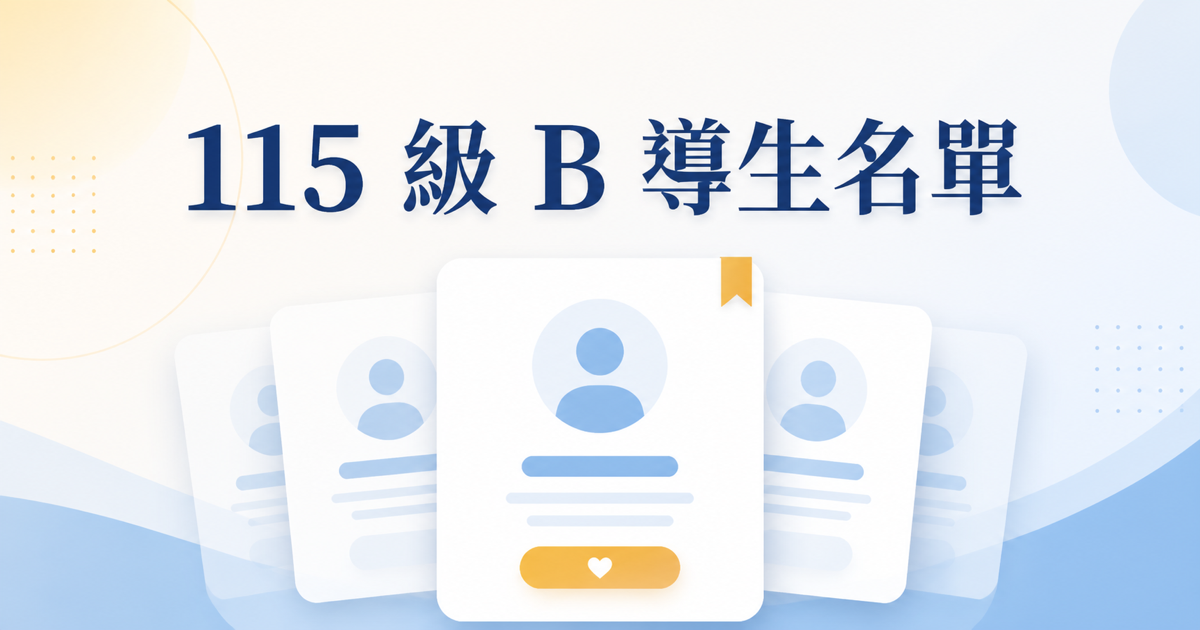
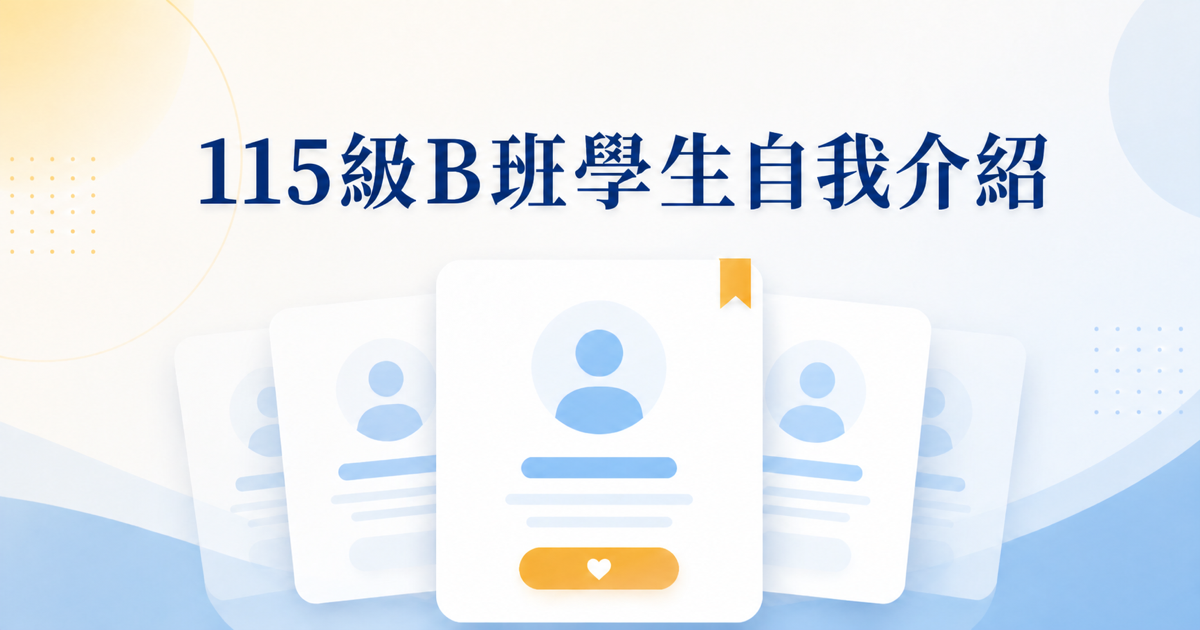
Update site title and social preview
Rename the site from "115 級 B 導生名單" to "115級B班學生自我介紹" across the HTML title, Open Graph, Twitter, and structured data metadata. Also refresh the OG image assets in `public/` and `docs/` so shared links use the updated branding.

diff --git a/docs/index.html b/docs/index.html
@@ -3,7 +3,7 @@
   <head>
     <meta charset="UTF-8" />
     <meta name="viewport" content="width=device-width, initial-scale=1.0" />
-    <title>115 級 B 導生名單</title>
+    <title>115級B班學生自我介紹</title>
     <meta name="description" content="115級B班學生自我介紹" />
     <meta name="robots" content="index, follow, max-image-preview:large" />
     <meta name="theme-color" content="#123f86" />
@@ -13,8 +13,8 @@
 
     <meta property="og:type" content="website" />
     <meta property="og:locale" content="zh_TW" />
-    <meta property="og:site_name" content="115 級 B 導生名單" />
-    <meta property="og:title" content="115 級 B 導生名單" />
+    <meta property="og:site_name" content="115級B班學生自我介紹" />
+    <meta property="og:title" content="115級B班學生自我介紹" />
     <meta property="og:description" content="115級B班學生自我介紹" />
     <meta property="og:url" content="https://tpemartin.github.io/econ115B/" />
     <meta property="og:image" content="https://tpemartin.github.io/econ115B/og-image.png" />
@@ -22,19 +22,19 @@
     <meta property="og:image:type" content="image/png" />
     <meta property="og:image:width" content="1200" />
     <meta property="og:image:height" content="630" />
-    <meta property="og:image:alt" content="115 級 B 導生名單分享預覽圖" />
+    <meta property="og:image:alt" content="115級B班學生自我介紹分享預覽圖" />
 
     <meta name="twitter:card" content="summary_large_image" />
-    <meta name="twitter:title" content="115 級 B 導生名單" />
+    <meta name="twitter:title" content="115級B班學生自我介紹" />
     <meta name="twitter:description" content="115級B班學生自我介紹" />
     <meta name="twitter:image" content="https://tpemartin.github.io/econ115B/og-image.png" />
-    <meta name="twitter:image:alt" content="115 級 B 導生名單分享預覽圖" />
+    <meta name="twitter:image:alt" content="115級B班學生自我介紹分享預覽圖" />
 
     <script type="application/ld+json">
       {
         "@context": "https://schema.org",
         "@type": "WebApplication",
-        "name": "115 級 B 導生名單",
+        "name": "115級B班學生自我介紹",
         "description": "115級B班學生自我介紹",
         "url": "https://tpemartin.github.io/econ115B/",
         "applicationCategory": "EducationalApplication",

diff --git a/index.html b/index.html
@@ -3,7 +3,7 @@
   <head>
     <meta charset="UTF-8" />
     <meta name="viewport" content="width=device-width, initial-scale=1.0" />
-    <title>115 級 B 導生名單</title>
+    <title>115級B班學生自我介紹</title>
     <meta name="description" content="115級B班學生自我介紹" />
     <meta name="robots" content="index, follow, max-image-preview:large" />
     <meta name="theme-color" content="#123f86" />
@@ -13,8 +13,8 @@
 
     <meta property="og:type" content="website" />
     <meta property="og:locale" content="zh_TW" />
-    <meta property="og:site_name" content="115 級 B 導生名單" />
-    <meta property="og:title" content="115 級 B 導生名單" />
+    <meta property="og:site_name" content="115級B班學生自我介紹" />
+    <meta property="og:title" content="115級B班學生自我介紹" />
     <meta property="og:description" content="115級B班學生自我介紹" />
     <meta property="og:url" content="https://tpemartin.github.io/econ115B/" />
     <meta property="og:image" content="https://tpemartin.github.io/econ115B/og-image.png" />
@@ -22,19 +22,19 @@
     <meta property="og:image:type" content="image/png" />
     <meta property="og:image:width" content="1200" />
     <meta property="og:image:height" content="630" />
-    <meta property="og:image:alt" content="115 級 B 導生名單分享預覽圖" />
+    <meta property="og:image:alt" content="115級B班學生自我介紹分享預覽圖" />
 
     <meta name="twitter:card" content="summary_large_image" />
-    <meta name="twitter:title" content="115 級 B 導生名單" />
+    <meta name="twitter:title" content="115級B班學生自我介紹" />
     <meta name="twitter:description" content="115級B班學生自我介紹" />
     <meta name="twitter:image" content="https://tpemartin.github.io/econ115B/og-image.png" />
-    <meta name="twitter:image:alt" content="115 級 B 導生名單分享預覽圖" />
+    <meta name="twitter:image:alt" content="115級B班學生自我介紹分享預覽圖" />
 
     <script type="application/ld+json">
       {
         "@context": "https://schema.org",
         "@type": "WebApplication",
-        "name": "115 級 B 導生名單",
+        "name": "115級B班學生自我介紹",
         "description": "115級B班學生自我介紹",
         "url": "https://tpemartin.github.io/econ115B/",
         "applicationCategory": "EducationalApplication",
